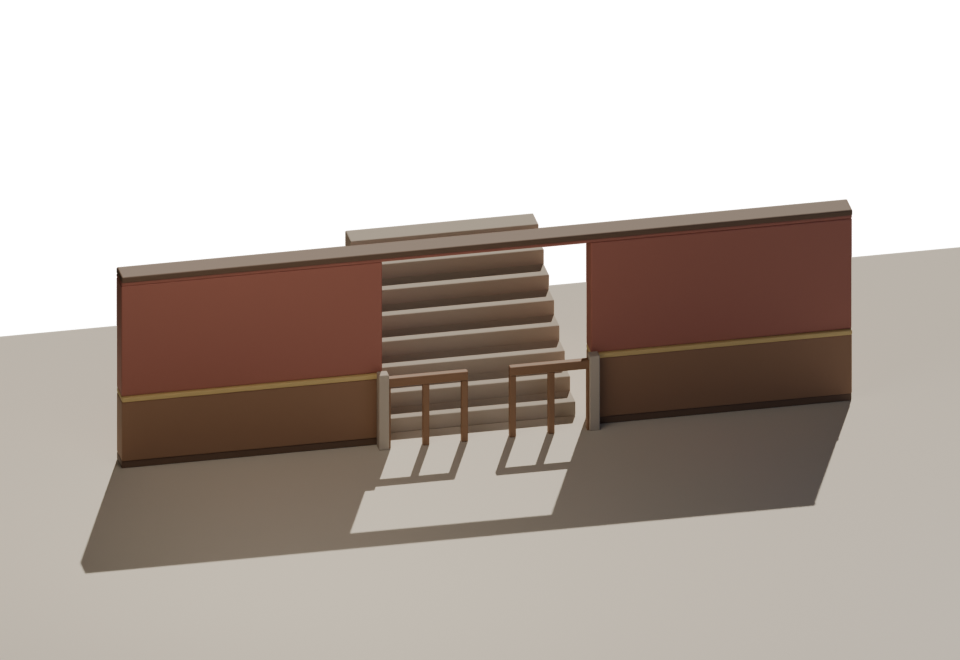
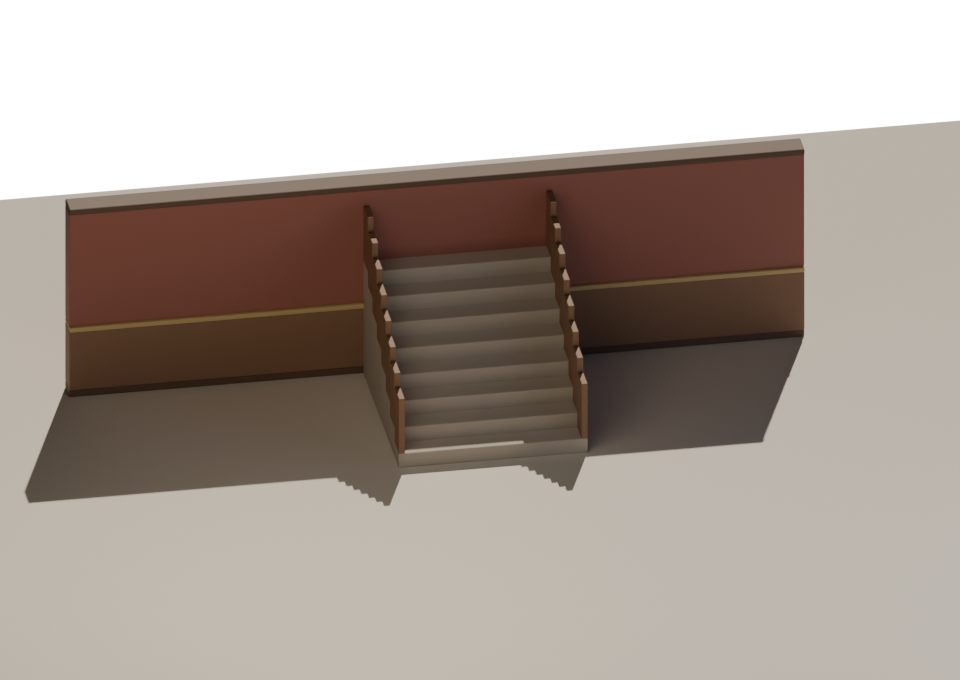
fix(blender): stairs stand in the room, rails follow the flight
The first stair demo was spatially wrong: the flight sat behind the wall while a balustrade
was placed across the opening on the floor, which blocks the stairs and reads as a fence.

- stairs are documented and rendered as the grand-staircase case: flight in the room, climbing
  towards the wall, top step touching its face
- stair_rail() adds posts on every step plus a sloped handrail (thin slices, not one rotated
  box), so the rail follows the flight instead of crossing it
- the wall opening variant is kept only for a service stair that continues behind the wall
- 4 more tests (24 in the kit): posts rise with the steps, handrail climbs continuously,
  mirroring, bad side rejected

diff --git a/tools/blender/kit_geometry.py b/tools/blender/kit_geometry.py
@@ -351,3 +351,35 @@ def balustrade(x0: float, x1: float, y: float, depth: float, base_z: float = 0.0
 def stair_opening(length: float, open_x0: float, open_x1: float, z_top: float) -> list[Box]:
     """Tall opening for a staircase: a portal that reaches from the floor to `z_top`."""
     return wall_with_openings(length, [(open_x0, open_x1, 0.0, z_top)])
+
+def stair_rail(width: float, steps: int, rise: float, run: float, height: float = 58.0,
+               post: float = 6.0, side: int = 1, depth: float = 0.0,
+               slices_per_step: int = 4) -> list[Box]:
+    """Balustrade that follows the flight: posts on the steps plus a sloped handrail.
+
+    The handrail is built from thin slices instead of one rotated box, so it reads as a smooth
+    slope after beveling while the kit stays axis-aligned and testable.
+    """
+    if steps < 1 or width <= 0 or rise <= 0 or run <= 0 or side not in (-1, 1):
+        raise ValueError("stair rail needs a positive flight and side +1 or -1")
+    outer = side * width / 2
+    inner = outer - side * post
+    x0, x1 = sorted((inner, outer))
+
+    boxes: list[Box] = []
+    for index in range(steps):
+        y1 = -depth - index * run
+        y0 = y1 - run
+        z = (index + 1) * rise
+        boxes.append((x0, y0, z, x1, y1, z + height))
+
+    slices = max(1, steps * slices_per_step)
+    for k in range(slices):
+        t0 = k / slices
+        t1 = (k + 1) / slices
+        y0 = -depth - run * steps * t0
+        y1 = -depth - run * steps * t1
+        z0 = rise * steps * t0 + height
+        z1 = rise * steps * t1 + height
+        boxes.append((x0, min(y0, y1), z0, x1, max(y0, y1), z1))
+    return boxes

diff --git a/scripts/raven/tools/test_blender_kit.py b/scripts/raven/tools/test_blender_kit.py
@@ -199,5 +199,35 @@ class WallKitGeometryTests(unittest.TestCase):
             self.kit.balustrade(300.0, 200.0, 0.0, 6.0)
 
 
+    def test_stair_rail_posts_rise_with_the_flight(self):
+        rail = self.kit.stair_rail(180.0, steps=8, rise=15.0, run=24.0, side=1)
+        posts = rail[:8]
+        self.assertEqual(len(posts), 8)
+        for index, (x0, _y0, z0, x1, _y1, z1) in enumerate(posts):
+            self.assertGreaterEqual(x0, 84.0)      # on the +X edge of a 180-wide flight
+            self.assertLessEqual(x1, 90.0)
+            self.assertAlmostEqual(z0, (index + 1) * 15.0, places=6)
+            self.assertAlmostEqual(z1, (index + 1) * 15.0 + 58.0, places=6)
+
+    def test_stair_rail_handrail_climbs_continuously(self):
+        rail = self.kit.stair_rail(180.0, steps=8, rise=15.0, run=24.0, side=1,
+                                   slices_per_step=8)
+        slices = rail[8:]
+        self.assertGreaterEqual(len(slices), 8 * 4)
+        tops = [box[5] for box in slices]
+        for a, b in zip(tops, tops[1:]):
+            self.assertGreaterEqual(b, a - 1e-9)
+        self.assertAlmostEqual(tops[-1], 8 * 15.0 + 58.0, places=6)
+
+    def test_stair_rail_mirrors_to_the_other_side(self):
+        left = self.kit.stair_rail(180.0, steps=4, rise=15.0, run=24.0, side=-1)
+        for x0, _y0, _z0, x1, _y1, _z1 in left[:4]:
+            self.assertGreaterEqual(x0, -90.0)
+            self.assertLessEqual(x1, -84.0 + 1e-9)
+
+    def test_stair_rail_rejects_bad_side(self):
+        with self.assertRaises(ValueError):
+            self.kit.stair_rail(180.0, steps=4, rise=15.0, run=24.0, side=0)
+
 if __name__ == "__main__":
     unittest.main()

diff --git a/docs/BLENDER_WALL_KIT.md b/docs/BLENDER_WALL_KIT.md
@@ -134,14 +134,29 @@ Two rendering notes that matter for quality:
 Evidence: `docs/evidence/blender_kit/arch.png`.
 ### Stairs
 
-A staircase is a traversable opening plus a flight, and the rail is a separate layer:
+There are two different arrangements, and mixing them produces nonsense (the first version of
+this demo put the flight behind the wall while putting a fence across the opening):
 
-- `stair_opening(length, x0, x1, z_top)` — a tall portal with a header above it, no leaf;
-- `stairs(width, steps, rise, run, depth)` — solid treads climbing away from the camera. Place
-  the flight centred in the opening and shifted behind the wall by `depth = THICKNESS`, so it is
-  only visible through the hole;
-- `balustrade(x0, x1, y, depth, height, max_gap)` — evenly spaced posts plus a handrail, drawn
-  in the foreground pass with its own pivot. Two runs leave a central entry.
+1. **Grand staircase in the room, in front of the wall.** The usual case, and the one the Hall
+   uses. The flight stands on the floor, climbs towards the wall, and the balustrade follows the
+   slope on one or both sides. No wall opening is involved.
+2. **Service stair through the wall.** Only when the flight continues into the neighbouring
+   room or down a level: then the wall gets a tall opening (`stair_opening`) and the flight is
+   placed behind it, so it is visible through the doorway.
+
+Pieces:
+
+- `stairs(width, steps, rise, run, depth)` — solid treads. `depth` shifts the flight; for case 1
+  translate it so the top step touches the wall face, for case 2 keep it behind the wall;
+- `stair_rail(width, steps, rise, run, side, height, slices_per_step)` — posts standing on every
+  step plus a handrail that follows the slope. The handrail is thin slices rather than one
+  rotated box, so it stays axis-aligned and testable;
+- `stair_opening(length, x0, x1, z_top)` — tall portal with a header, for case 2 only;
+- `balustrade(x0, x1, y, depth, height, max_gap)` — a straight run for landings and room edges;
+  two runs leave a central entry.
+
+The rail is a separate sprite with its own pivot: it is the layer that has to fade or occlude
+when the player walks in front of it, and it can swap state without re-rendering the flight.
 
 The rail being a separate sprite matters: it is the layer that has to fade or occlude when the
 player walks in front of it, which is the same mechanism as Diablo's wall fading. It also means
